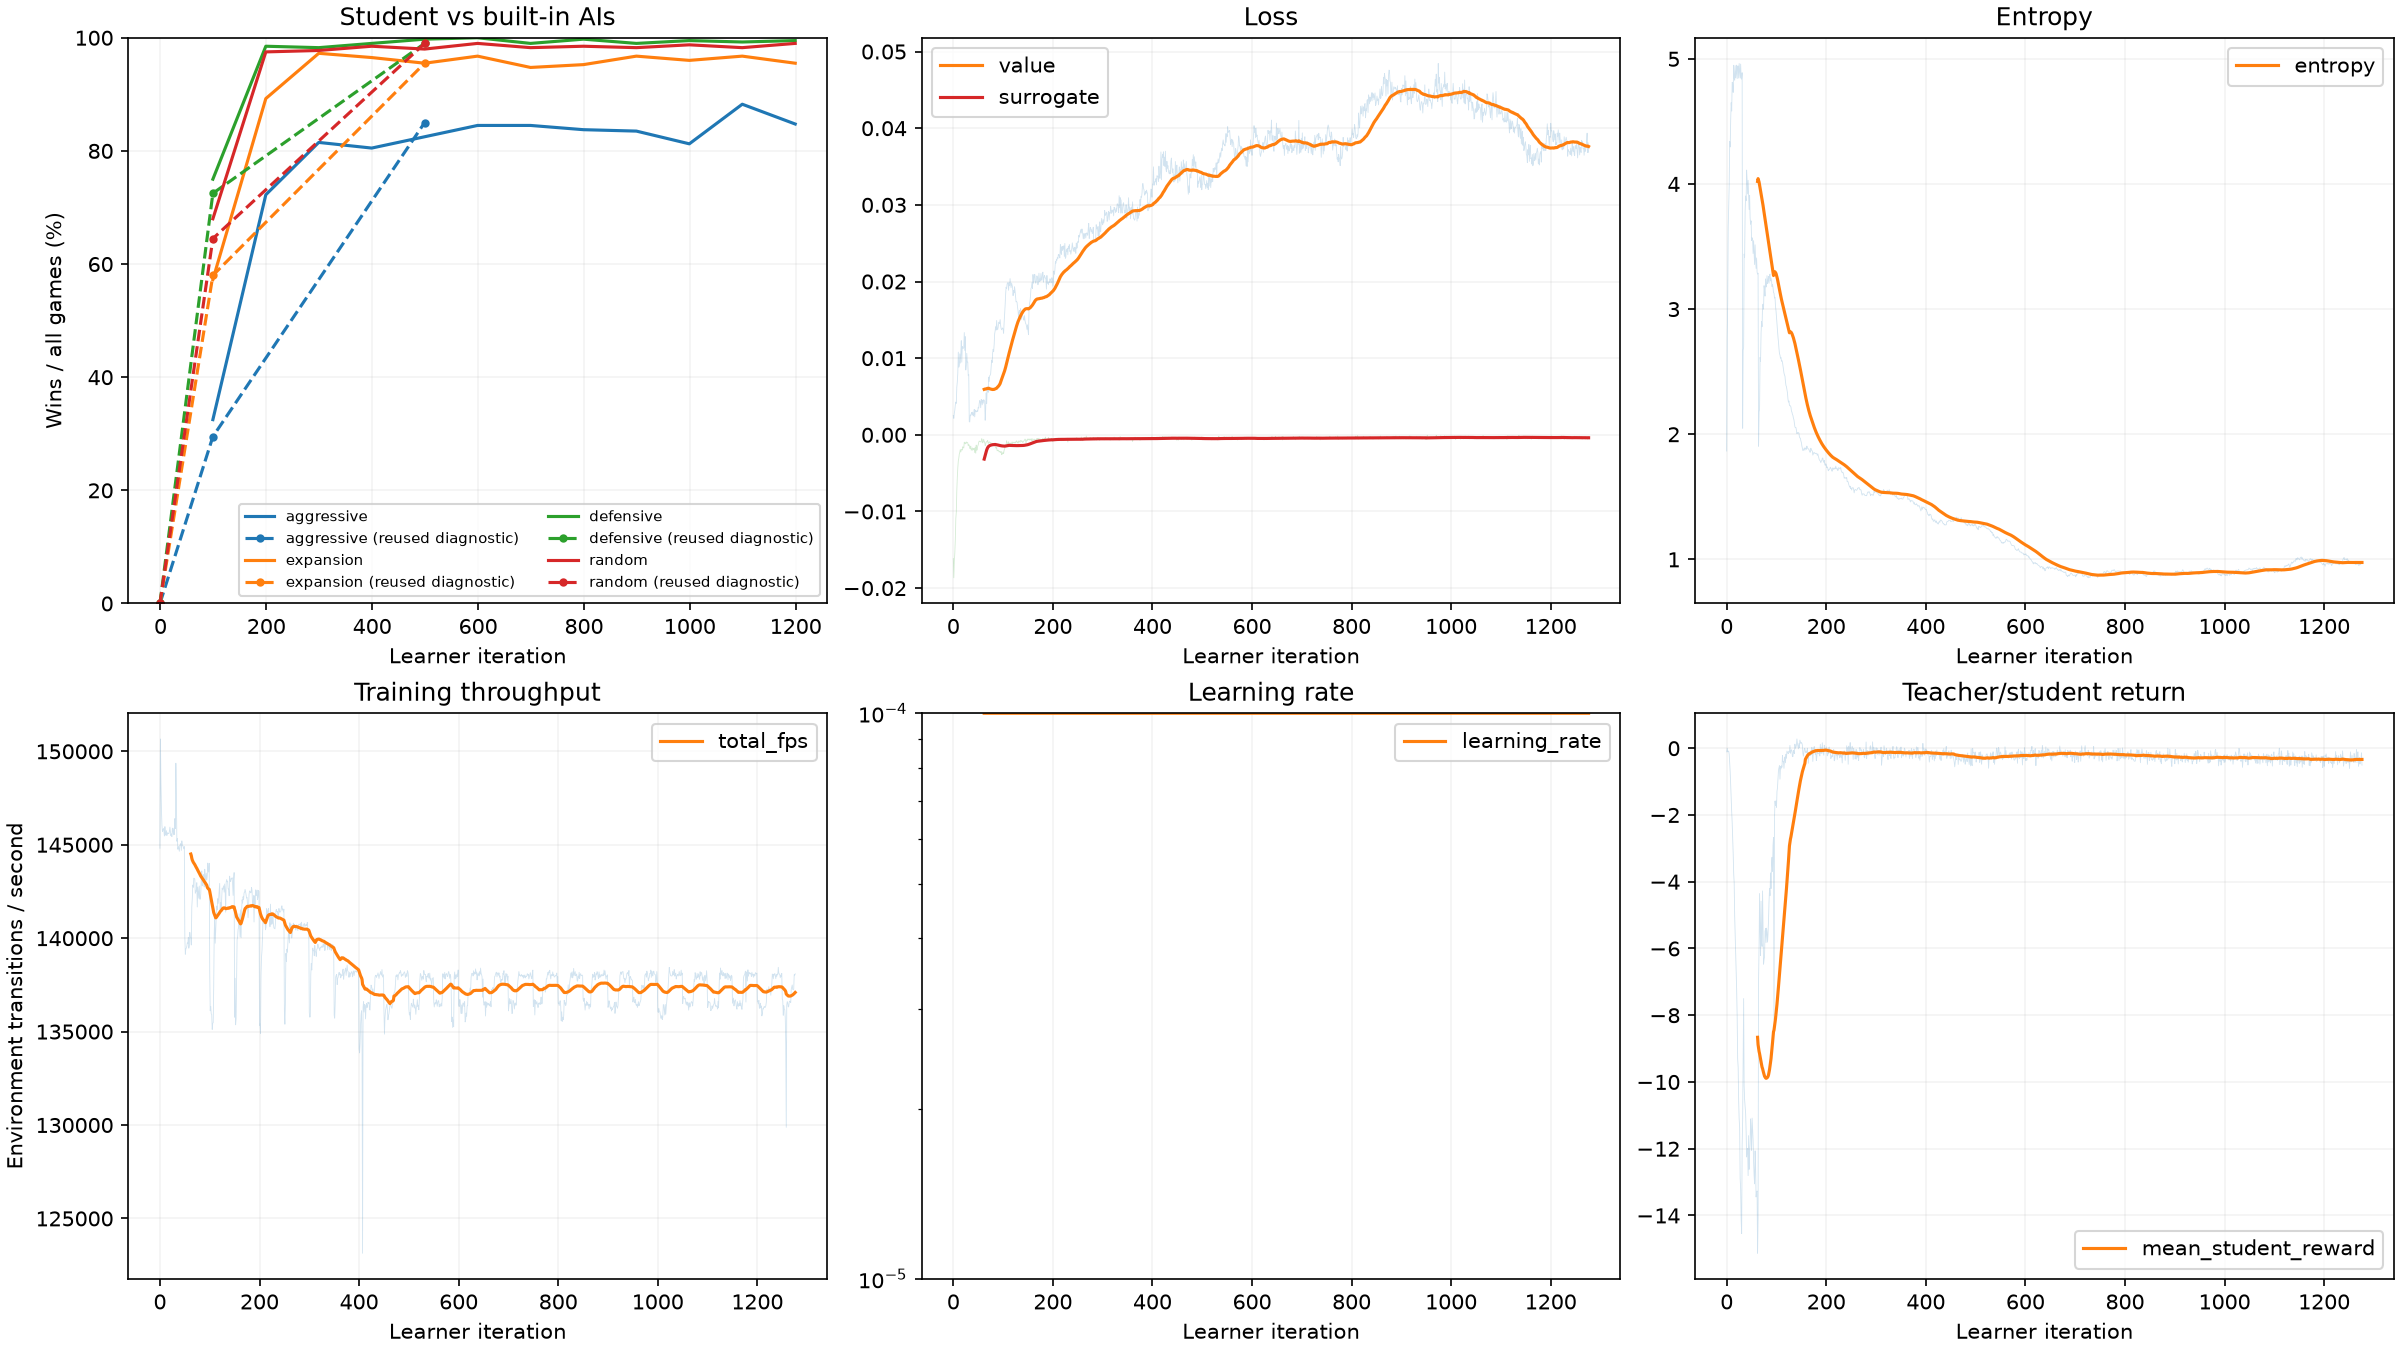
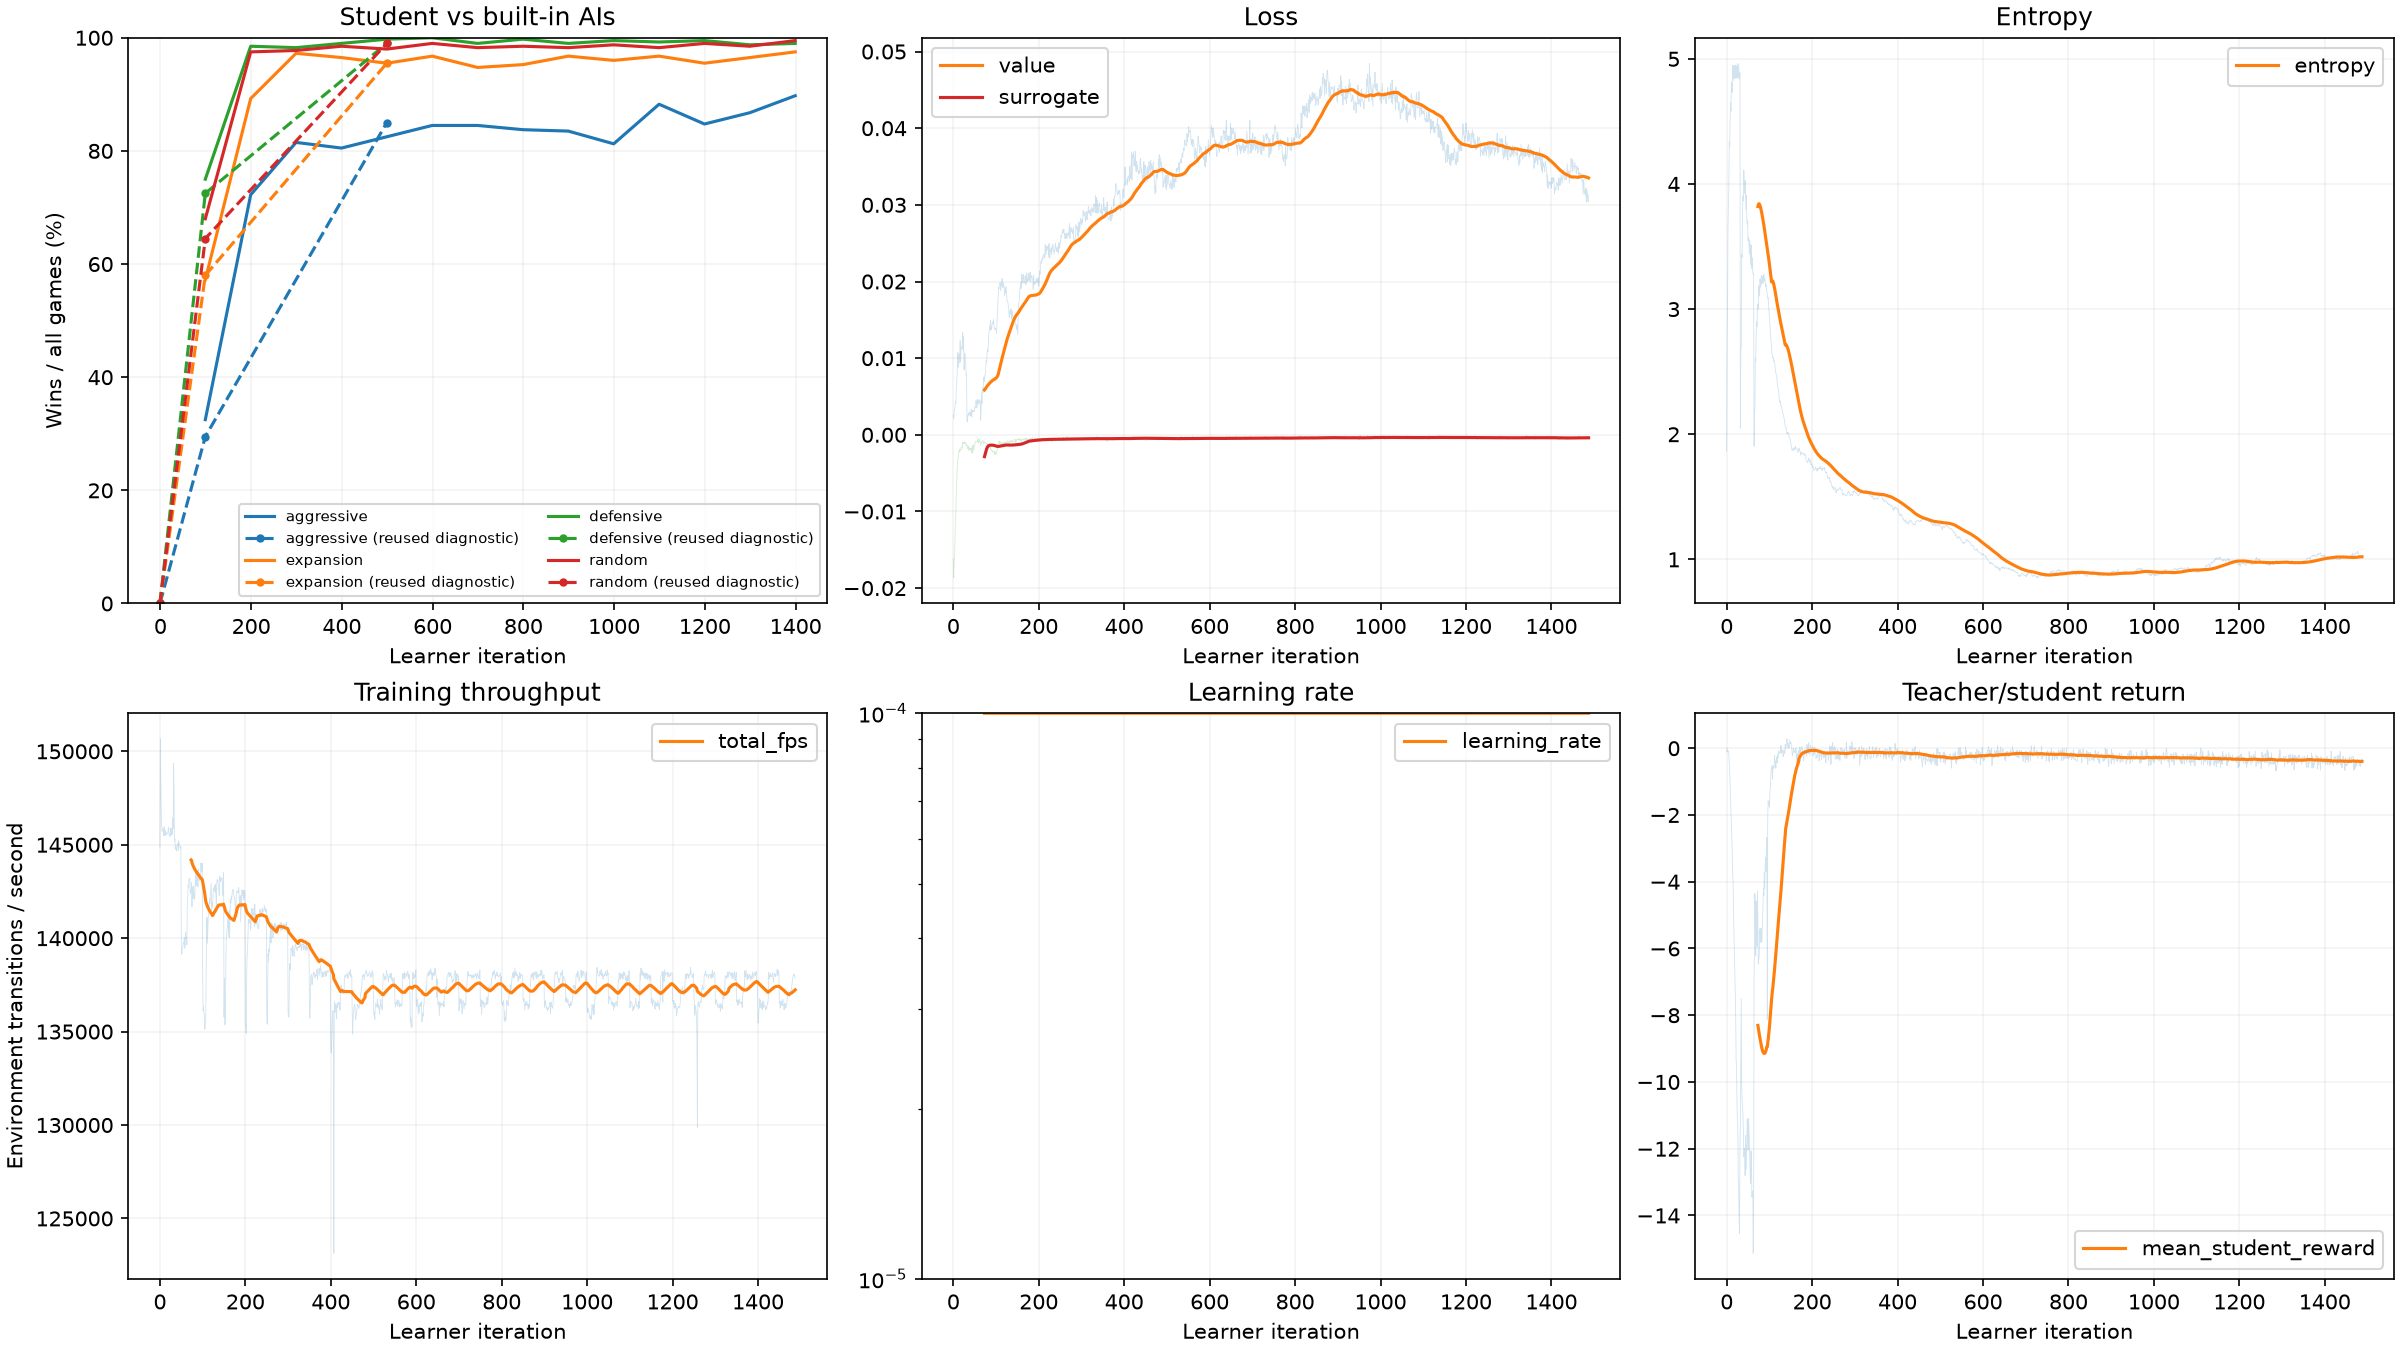
docs(rl): record v17 continued late improvement

diff --git a/doc/rl_train_log.md b/doc/rl_train_log.md
@@ -831,7 +831,7 @@ v16最终交付追加核对 `outputs/rl_iteration_audit/pure_scratch_phase/v16_f
 
[1 lines of base64/hex data omitted]
 
-目前完整selector评测如下，1099为当前最佳，训练仍在运行。原599峰值后699–999四点未提升，但1099出现新峰88.25%，较84.5%提高3.75pp，因此继续同一进程，未请求STOP，也未结算版本：
+目前完整selector评测如下，1399为当前最佳，训练仍在运行。599后699–999四点未提升，1099出现88.25%新峰；1199回落，1299/1399恢复至86.75/89.75%，曲线仍有改善，因此继续同一进程，没有请求STOP或结算版本。
 
 | 更新 | aggressive | expansion | defensive | random |
 | ---: | ---: | ---: | ---: | ---: |
@@ -847,6 +847,8 @@ v16最终交付追加核对 `outputs/rl_iteration_audit/pure_scratch_phase/v16_f
 | 999 | 81.25% | 96% | 99.5% | 98.75% |
 | 1099 | 88.25% | 96.75% | 99.25% | 98.25% |
 | 1199 | 84.75% | 95.5% | 99.5% | 99% |
+| 1299 | 86.75% | 96.5% | 98.75% | 98.5% |
+| 1399 | 89.75% | 97.5% | 99% | 99.5% |
 
 ![v17中期：实际选模点及新初始/99/499开发诊断，训练仍在运行](rl_train_figures/v17.png)
 
@@ -863,3 +865,5 @@ v16最终交付追加核对 `outputs/rl_iteration_audit/pure_scratch_phase/v16_f
[1 lines of base64/hex data omitted]
 
 晚期只读配对 `v17_late_selector_comparison.{json,md}`：五份现成selector报告各1600局的有序身份相同，root独立核对599→1099和v11/499→1099翻转计数。599→1099 Agg非胜→胜38、胜→非胜23，败局62→47（P0 34→27、P1 28→20）；Expansion9/9持平，Def0/3和Random3/6各净少3胜。Agg同旧败→新胜38局WAIT15.63→40.71%、反向8.17→5.21%、时长190.76→92.50tick；旧胜→新败23局WAIT29.21→14.26%、反向2.35→10.18%、时长99.87→256.17；剩余同败24局反向也上升，不能说行为统一改善或作NN因果解释。v11 selector499→1099 flips45/26、10/12、3/3、11/5，Agg净多19胜；但1099有1100updates/576,716,800样本，对比v11/499的500updates/262,144,000，不能当作等预算参数化收益。全部tick加权by_ai/座次动作聚合与原报告一致；夺将后终局stats未用于临死经济推断。1199新四率84.75/95.5/99.5/99，best仍1099，最终结果与counter待训练/全部worker关闭后结算。
+
[1 lines of base64/hex data omitted]
